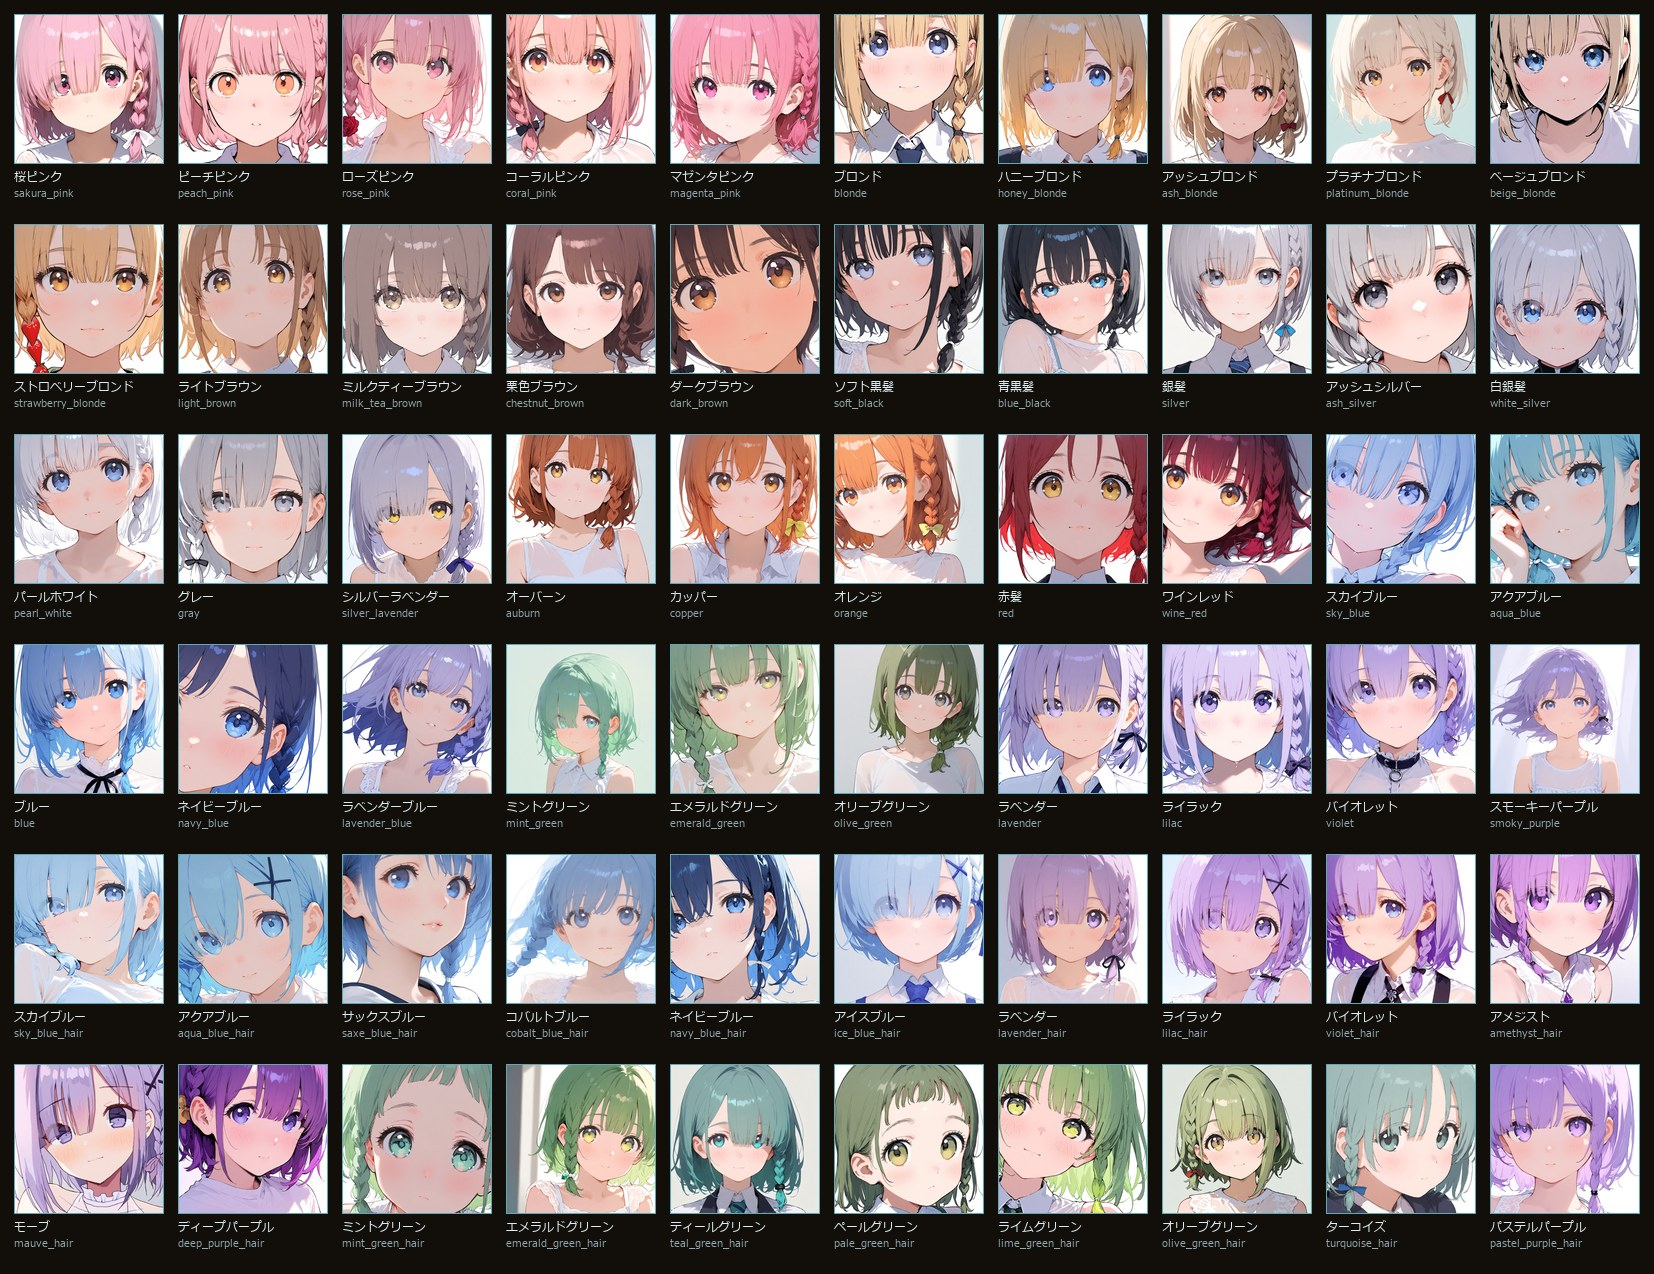
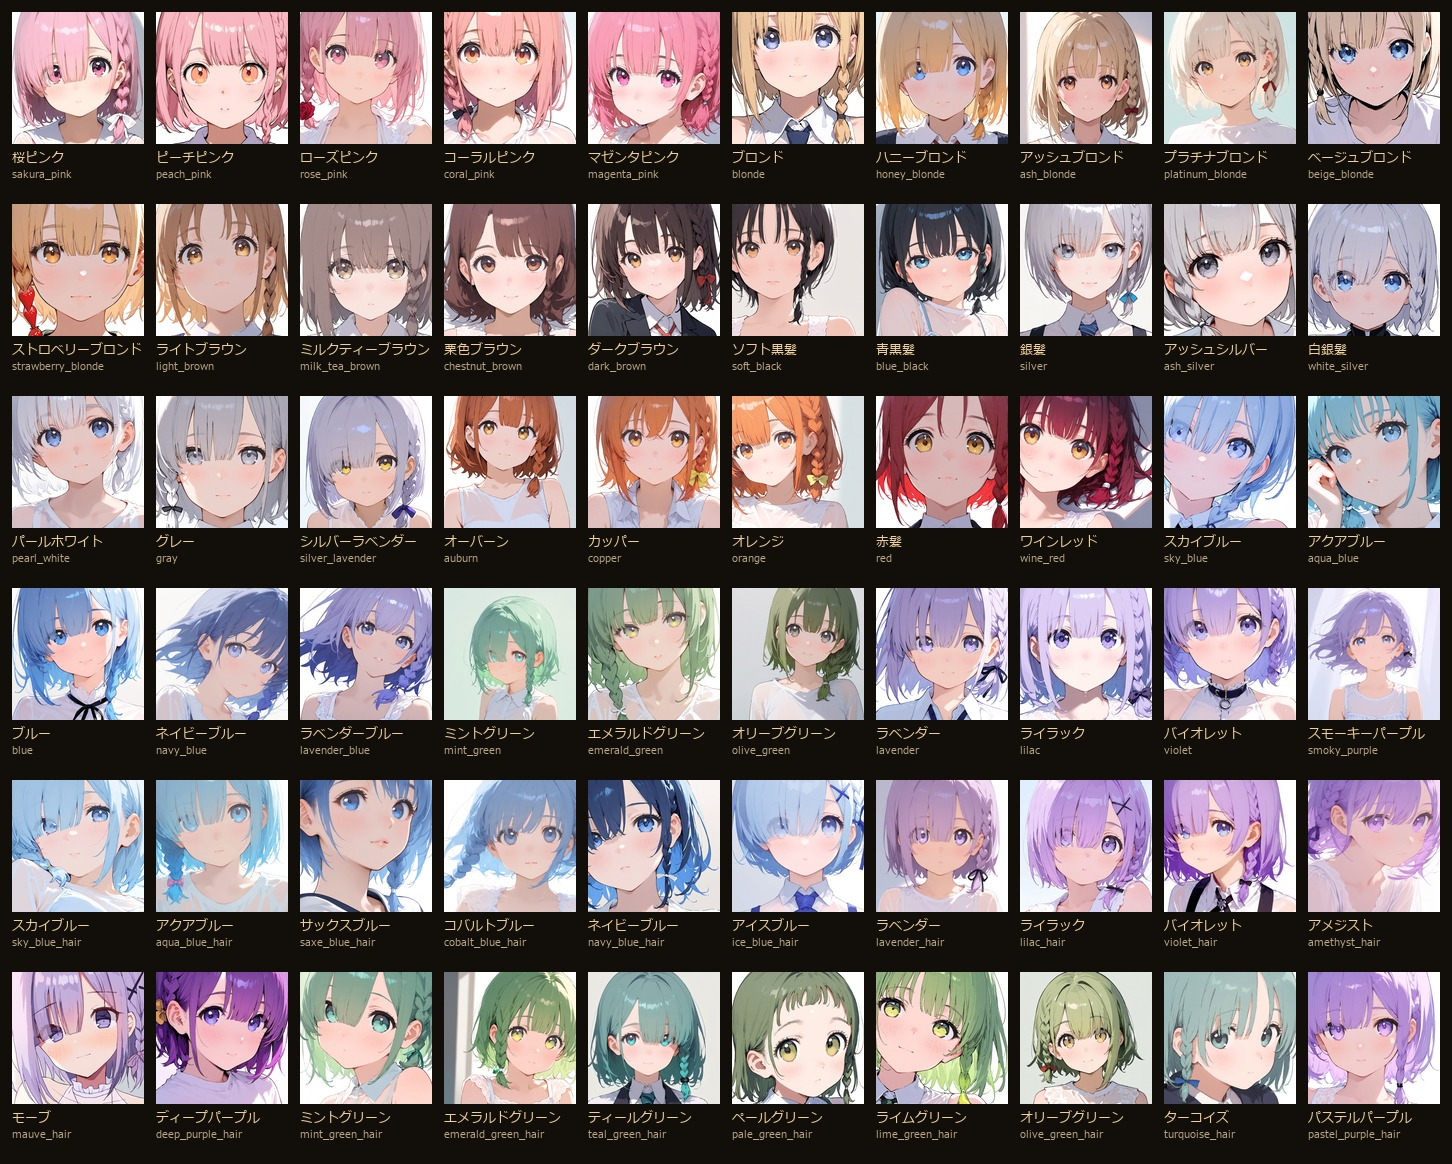
Replace close-up hair color samples

Changed region(s): [[0.0, 0.0, 0.9917, 0.9897]]

diff --git a/assets/js/research-sample-candidates.js b/assets/js/research-sample-candidates.js
@@ -481,10 +481,10 @@ window.researchSampleCandidates = {
       "role": "main",
       "focus": "brown",
       "expected_result": "濃茶",
-      "filename": "dark_brown_2812089149_03.png",
+      "filename": "dark_brown_938343740_01.png",
       "reason": "濃茶",
-      "source_path": "test27/dark_brown/dark_brown_2812089149_03.png",
-      "asset_path": "assets/research/hair-color/test27/dark_brown/dark_brown_2812089149_03.png",
+      "source_path": "test27/dark_brown/dark_brown_938343740_01.png",
+      "asset_path": "assets/research/hair-color/test27/dark_brown/dark_brown_938343740_01.png",
       "stage": "survey",
       "important_tags": "dark brown hair",
       "positive_hair_prompt": "(dark brown hair:1.35), deep brown hair, rich brown hair",
@@ -506,10 +506,10 @@ window.researchSampleCandidates = {
       "role": "main",
       "focus": "black",
       "expected_result": "黒髪",
-      "filename": "soft_black_2353555956_01.png",
+      "filename": "soft_black_3796948081_02.png",
       "reason": "黒髪",
-      "source_path": "test27/soft_black/soft_black_2353555956_01.png",
-      "asset_path": "assets/research/hair-color/test27/soft_black/soft_black_2353555956_01.png",
+      "source_path": "test27/soft_black/soft_black_3796948081_02.png",
+      "asset_path": "assets/research/hair-color/test27/soft_black/soft_black_3796948081_02.png",
       "stage": "survey",
       "important_tags": "soft black hair",
       "positive_hair_prompt": "(soft black hair:1.35), natural black hair, warm black hair, dark hair with soft highlights",
@@ -906,10 +906,10 @@ window.researchSampleCandidates = {
       "role": "main",
       "focus": "blue",
       "expected_result": "紺",
-      "filename": "navy_blue_913520777_01.png",
+      "filename": "navy_blue_2141045029_03.png",
       "reason": "紺",
-      "source_path": "test27/navy_blue/navy_blue_913520777_01.png",
-      "asset_path": "assets/research/hair-color/test27/navy_blue/navy_blue_913520777_01.png",
+      "source_path": "test27/navy_blue/navy_blue_2141045029_03.png",
+      "asset_path": "assets/research/hair-color/test27/navy_blue/navy_blue_2141045029_03.png",
       "stage": "survey",
       "important_tags": "navy blue hair",
       "positive_hair_prompt": "(navy blue hair:1.35), deep blue hair, dark navy hair",
@@ -1156,10 +1156,10 @@ window.researchSampleCandidates = {
       "role": "main",
       "focus": "blue",
       "expected_result": "水色と青の中間。アニメキャラ感が強い",
-      "filename": "aqua_blue_hair_2298395852_02.png",
+      "filename": "aqua_blue_hair_3511497209_01.png",
       "reason": "水色と青の中間。アニメキャラ感が強い",
-      "source_path": "test27/aqua_blue_hair/aqua_blue_hair_2298395852_02.png",
-      "asset_path": "assets/research/hair-color/test27/aqua_blue_hair/aqua_blue_hair_2298395852_02.png",
+      "source_path": "test27/aqua_blue_hair/aqua_blue_hair_3511497209_01.png",
+      "asset_path": "assets/research/hair-color/test27/aqua_blue_hair/aqua_blue_hair_3511497209_01.png",
       "stage": "survey",
       "important_tags": "aqua blue hair",
       "positive_hair_prompt": "(aqua blue hair:1.35), turquoise blue hair, clear aqua hair, vivid aquatic blue hair, bright anime hair color",
@@ -1356,10 +1356,10 @@ window.researchSampleCandidates = {
       "role": "main",
       "focus": "purple",
       "expected_result": "宝石感のある紫。濃淡が綺麗に出るか確認",
-      "filename": "amethyst_hair_3187316279_03.png",
+      "filename": "amethyst_hair_2662625094_02.png",
       "reason": "宝石感のある紫。濃淡が綺麗に出るか確認",
-      "source_path": "test27/amethyst_hair/amethyst_hair_3187316279_03.png",
-      "asset_path": "assets/research/hair-color/test27/amethyst_hair/amethyst_hair_3187316279_03.png",
+      "source_path": "test27/amethyst_hair/amethyst_hair_2662625094_02.png",
+      "asset_path": "assets/research/hair-color/test27/amethyst_hair/amethyst_hair_2662625094_02.png",
       "stage": "survey",
       "important_tags": "amethyst hair",
       "positive_hair_prompt": "(amethyst hair:1.35), amethyst purple hair, jewel-like purple hair, rich purple hair, elegant anime hair color",
@@ -1431,10 +1431,10 @@ window.researchSampleCandidates = {
       "role": "main",
       "focus": "green",
       "expected_result": "淡いミント色。かわいい系の緑髪候補",
-      "filename": "mint_green_hair_457018702_03.png",
+      "filename": "mint_green_hair_1865855126_02.png",
       "reason": "淡いミント色。かわいい系の緑髪候補",
-      "source_path": "test27/mint_green_hair/mint_green_hair_457018702_03.png",
-      "asset_path": "assets/research/hair-color/test27/mint_green_hair/mint_green_hair_457018702_03.png",
+      "source_path": "test27/mint_green_hair/mint_green_hair_1865855126_02.png",
+      "asset_path": "assets/research/hair-color/test27/mint_green_hair/mint_green_hair_1865855126_02.png",
       "stage": "survey",
       "important_tags": "mint green hair",
       "positive_hair_prompt": "(mint green hair:1.35), soft mint green hair, pastel green hair, pale mint anime hair, fresh light green hair",
